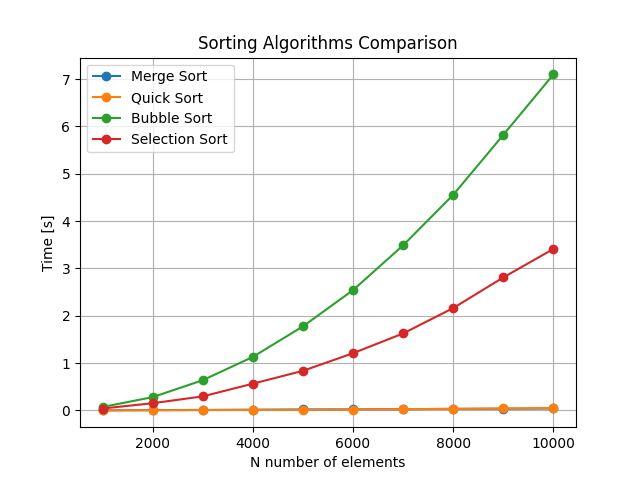
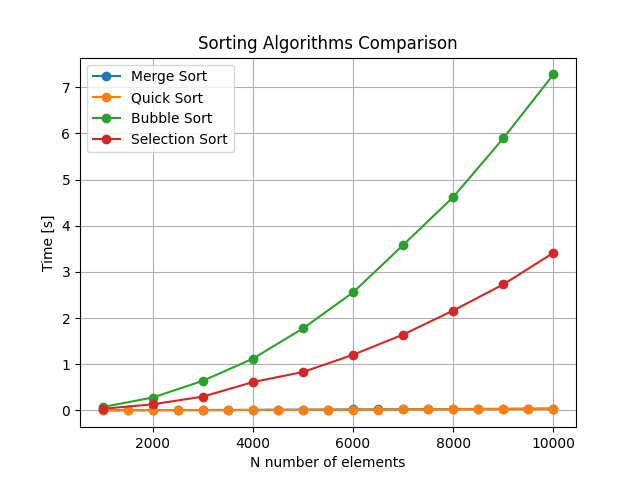
changed n size for fast sorts plot

diff --git a/comparison_plots.py b/comparison_plots.py
@@ -1,10 +1,11 @@
 from time import process_time
 from matplotlib import pyplot as plt
 import gc
+
 from bubblesort import bubble_sort
+from selectionsort import sorted_selection
 from mergesort import merge_sort
 from quicksort import quick_sort
-from selectionsort import sorted_selection
 
 
 def load_words(file):
@@ -28,10 +29,10 @@ def get_plot_point(word_list, size, function):
     return size, t2 - t1
 
 
-def get_subplot_data(word_list, function, step):
+def get_subplot_data(word_list, function, step, max_words):
     algorithm_data = []
     print(f"Started gathering data with {function}")
-    for i in range(1000, 10001, step):
+    for i in range(1000, max_words, step):
         point = get_plot_point(word_list, i, function)
         algorithm_data.append(point)
     print(f"Finished gathering data with {function}")
@@ -84,10 +85,18 @@ def generate_plot_fast_sorts(merge_data, quick_data):
 
 if __name__ == "__main__":
     pan_t_words = load_words("pan_tadeusz.txt")
-    merge_data = get_subplot_data(pan_t_words, merge_sort, 1000)
-    quick_data = get_subplot_data(pan_t_words, quick_sort, 1000)
-    bubble_data = get_subplot_data(pan_t_words, bubble_sort, 1000)
-    selection_data = get_subplot_data(pan_t_words, sorted_selection, 1000)
+    merge_data = get_subplot_data(pan_t_words, merge_sort, 1000, 10001)
+    quick_data = get_subplot_data(pan_t_words, quick_sort, 1000, 10001)
+    bubble_data = get_subplot_data(pan_t_words, bubble_sort, 1000, 10001)
+    selection_data = get_subplot_data(
+        pan_t_words, sorted_selection, 1000, 10001
+    )
+    merge_data_bigger_size = get_subplot_data(
+        pan_t_words, merge_sort, 2000, 40000
+    )
+    quick_data_bigger_size = get_subplot_data(
+        pan_t_words, quick_sort, 2000, 40000
+    )
     generate_plot_all(merge_data, quick_data, bubble_data, selection_data)
-    generate_plot_fast_sorts(merge_data, quick_data)
     generate_plot_slow_sorts(bubble_data, selection_data)
+    generate_plot_fast_sorts(merge_data_bigger_size, quick_data_bigger_size)
